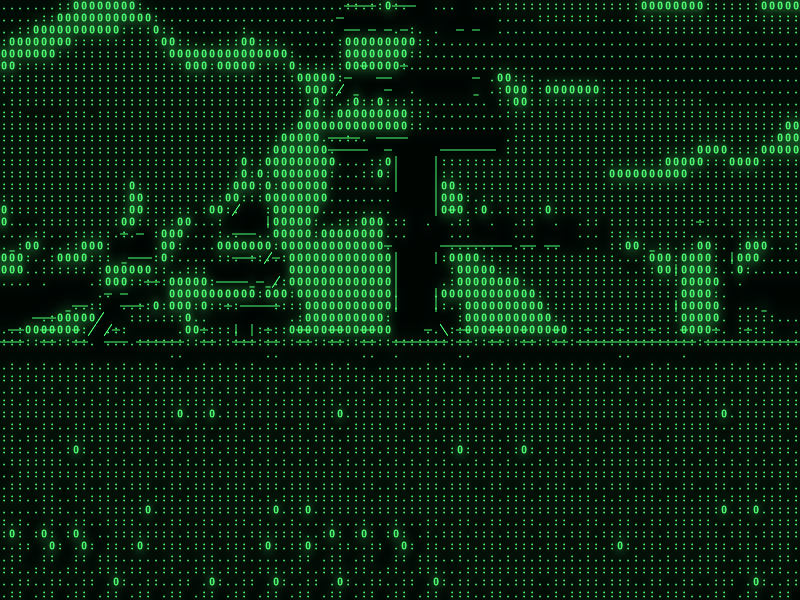
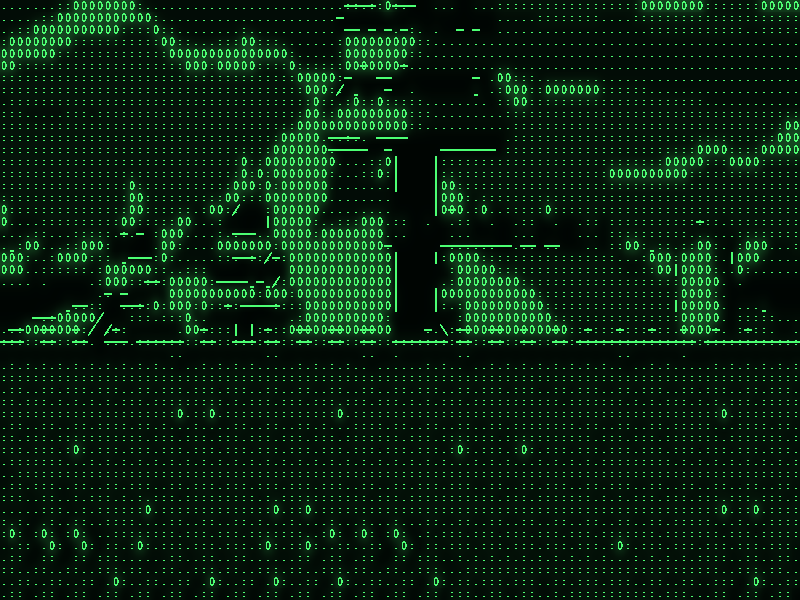
feat: crisp pixel glyphs and solid four-texel contour strokes
Built-in contour strokes were about 2.4 texels of the 16x24 tile and
integrated to one half-intensity gray pixel at 8x12 cells. Make them
four texels wide so they render as two solid pixels, and add a
crisp_glyphs option that binarizes fill and contour masks (ink when at
least 40% covered), for pixel-art characters in the spirit of the
Acerola ASCII reference.

The flag shares the paper-wash slot as bit flags, so push constants are
unchanged. A new oracle group checks binary output against analytic
coverage. Every included style except Chalk enables it.

diff --git a/tests/smoke/atlas_filter.py b/tests/smoke/atlas_filter.py
@@ -51,11 +51,36 @@ for ink in [0, 1]:
     rgb = output.read_bytes().split(b'\n', 3)[3]
     for y in range(h):
         for x in range(w):
-            # The cell before the boundary owns the Sobel contour. A two-texel
-            # atlas bar integrates to half coverage in its two center pixels.
-            expected = 128 if x in [35, 36] else ink * 255
+            # The cell before the boundary owns the contour. The four-texel
+            # atlas bar covers texels 6..9 of 16: pixels 3 and 4 of the 8-pixel
+            # cell, fully, in the contrasting paper color.
+            expected = (1 - ink) * 255 if x in [35, 36] else ink * 255
             assert all(abs(c - expected) <= 1 for c in rgb[(y*w+x)*3:(y*w+x+1)*3]), (name, x, y)
 print('2 adaptive contour-over-fill GPU cases passed without cell-sized holes')
+# Crisp glyphs: every pixel must be exactly ink or paper, decided by the
+# analytic rectangle coverage against the 40% threshold.
+for cw, ch in [(3, 5), (8, 12), (13, 19), (64, 96)]:
+    w, h = cw * 2, ch * 2
+    name = f'crisp-{cw}-{ch}'
+    source = args.output / (name + '-source.ppm')
+    source.write_bytes(f'P6\n{w} {h}\n255\n'.encode() + bytes([128]) * w * h * 3)
+    config = args.output / (name + '.conf')
+    config.write_text('render_style=illustrated\ncolor_mode=mono\nglyph_strength=1\n'
+        f'cell_width={cw}\ncell_height={ch}\ncharacter_set=custom\ncharacters="▘"\n'
+        'edge_strength=0\ncrisp_glyphs=true\nforeground=1,1,1\nbackground=0,0,0\n')
+    output = args.output / (name + '.ppm')
+    subprocess.run([str(args.build / 'glyphshift-preview'), str(source), str(config), str(output)], check=True, stdout=subprocess.DEVNULL)
+    rgb = output.read_bytes().split(b'\n', 3)[3]
+    for y in range(h):
+        for x in range(w):
+            x0, x1 = (x % cw) / cw, (x % cw + 1) / cw
+            y0, y1 = (y % ch) / ch, (y % ch + 1) / ch
+            area = max(0, min(x1, .5) - x0) / (x1 - x0) * max(0, min(y1, .5) - y0) / (y1 - y0)
+            pixel = rgb[(y * w + x) * 3:(y * w + x + 1) * 3]
+            assert pixel in (b'\xff\xff\xff', b'\x00\x00\x00'), (name, x, y, pixel)
+            if abs(area - .4) > .01:
+                assert pixel == (b'\xff\xff\xff' if area >= .4 else b'\x00\x00\x00'), (name, x, y, area)
+print('4 crisp-glyph GPU cases passed: binary pixels matching analytic coverage')
 # Structural matching must recover every mixed quadrant silhouette, including
 # dark objects on bright paper, with both source colors and reversed mono ink.
 for mode in ['source', 'mono']:

diff --git a/tests/unit/art_test.cpp b/tests/unit/art_test.cpp
@@ -50,14 +50,14 @@ int main() {
             "contrast=1.2\ntone_gamma=0.8\nedge_strength=0.7\nedge_threshold=0."
             "2\nforeground=0.2,0.3,0.4\nbackground=1,0.9,0.8\n"
             "shape_matching=true\nshape_threshold=0.17\nscene_paper=0.65\n"
-            "saturation=1.6\nglow=0.3\npaper_wash=true\nstability=0.7\n");
+            "saturation=1.6\nglow=0.3\npaper_wash=true\nstability=0.7\ncrisp_glyphs=true\n");
         check(!parsed.warnings && parsed.value.art.illustrated && !parsed.value.art.fill &&
                   !parsed.value.art.contour_overlay && parsed.value.art.saturation == 1.6F &&
                   parsed.value.art.glow == .3F && parsed.value.art.paper_wash &&
-                  parsed.value.art.stability == .7F,
+                  parsed.value.art.stability == .7F && parsed.value.art.crisp,
             "illustration config");
         check(art_parameters(parsed.value)[16] == 1.6F && art_parameters(parsed.value)[17] == .3F &&
-                  art_parameters(parsed.value)[18] == 1 &&
+                  art_parameters(parsed.value)[18] == 3 &&
                   art_parameters(parsed.value)[art_stability] == .7F,
             "saturation, glow and paper wash reach the shared shader parameters");
         check(parse_settings(serialize_settings(parsed.value)).value == parsed.value,
@@ -79,6 +79,7 @@ int main() {
                  "glow=1.5",
                  "glow=-0.1",
                  "paper_wash=bad",
+                 "crisp_glyphs=maybe",
                  "stability=1.5",
                  "stability=-1",
                  "foreground=1,2,0",

diff --git a/src/config/characters.cpp b/src/config/characters.cpp
@@ -382,10 +382,12 @@ CharacterAtlas build_character_atlas(const CharacterSelection& selection) {
                     for (unsigned x = 0; x < 16; ++x) {
                         const float px = (static_cast<float>(x) + .5F) / 16;
                         const float py = (static_cast<float>(y) + .5F) / 24;
-                        const bool lit = code == '|' ? std::abs(px - .5F) < .075F
+                        // Four-texel strokes: two solid pixels at an 8x12 cell
+                        // instead of one half-intensity pixel.
+                        const bool lit = code == '|' ? std::abs(px - .5F) < .125F
                                          : code == '-'
-                                             ? std::abs(py - .5F) < .05F
-                                             : std::abs(px - (code == '/' ? 1 - py : py)) < .075F;
+                                             ? std::abs(py - .5F) < .084F
+                                             : std::abs(px - (code == '/' ? 1 - py : py)) < .125F;
                         if (lit)
                             pixel(atlas, 256 + e, x, y, 255);
                     }

diff --git a/src/config/settings.cpp b/src/config/settings.cpp
@@ -270,12 +270,13 @@ ParsedSettings parse_settings(std::string_view text) noexcept {
             if (!number(value, target, 0, unit ? 1 : 2))
                 parsed.warnings |= invalid_art;
         } else if (key == "fill_enabled" || key == "contour_overlay" || key == "shape_matching" ||
-                   key == "paper_wash") {
+                   key == "paper_wash" || key == "crisp_glyphs") {
             auto& target = key == "fill_enabled"     ? parsed.value.art.fill
                            : key == "shape_matching" ? parsed.value.art.shape_matching
                            : key == "paper_wash"     ? parsed.value.art.paper_wash
+                           : key == "crisp_glyphs"   ? parsed.value.art.crisp
                                                      : parsed.value.art.contour_overlay;
-            target = key != "shape_matching" && key != "paper_wash";
+            target = key == "fill_enabled" || key == "contour_overlay";
             if (value != "false" && value != "0" && value != "true" && value != "1")
                 parsed.warnings |= invalid_art;
             else

diff --git a/include/glyphshift/config/settings.hpp b/include/glyphshift/config/settings.hpp
@@ -12,6 +12,8 @@ struct ArtSettings {
     bool shape_matching = false;
     // Interpolate cell paper between cell centers: a wash instead of tiles.
     bool paper_wash = false;
+    // Binary glyph masks: every pixel is ink or paper, like pixel-art glyphs.
+    bool crisp = false;
     float shape_threshold = 0.2F, scene_paper = 0.0F;
     float exposure = 1.0F, contrast = 1.0F, gamma = 1.0F;
     float edge_strength = 1.0F, edge_threshold = 0.18F;
@@ -60,7 +62,8 @@ inline std::array<float, 20> art_parameters(const Settings& s) {
         a.scene_paper,
         a.saturation,
         a.glow,
-        a.paper_wash ? 1.0F : 0.0F,
+        // Bit flags: 1 paper wash, 2 crisp glyphs.
+        (a.paper_wash ? 1.0F : 0.0F) + (a.crisp ? 2.0F : 0.0F),
         a.stability};
 }
 

diff --git a/src/editor/editor.cpp b/src/editor/editor.cpp
@@ -404,6 +404,11 @@ void controls(State& state,
                 ImGui::SetTooltip(
                     "Blend scene-colored paper smoothly between cells, like a "
                     "watercolor wash under the glyphs.");
+            ImGui::Checkbox("Crisp pixel glyphs", &art.crisp);
+            if (ImGui::IsItemHovered())
+                ImGui::SetTooltip(
+                    "Every pixel is ink or paper: solid strokes with no gray "
+                    "antialiasing, like pixel-art characters.");
             ImGui::TextWrapped(
                 "Shape matching uses your selected glyphs to preserve small silhouettes. "
                 "Include quadrant blocks for finer shapes. Scene-colored paper affects source "

diff --git a/src/config/presets.cpp b/src/config/presets.cpp
@@ -190,6 +190,7 @@ std::string serialize_settings(const Settings& s) {
            "\nshape_threshold=" + decimal(s.art.shape_threshold) +
            "\nscene_paper=" + decimal(s.art.scene_paper) +
            "\npaper_wash=" + (s.art.paper_wash ? "true" : "false") +
+           "\ncrisp_glyphs=" + (s.art.crisp ? "true" : "false") +
            "\nsaturation=" + decimal(s.art.saturation) + "\nglow=" + decimal(s.art.glow) +
            "\nstability=" + decimal(s.art.stability) + "\nforeground=" + rgb(s.art.foreground) +
            "\nbackground=" + rgb(s.art.background) + "\n";

diff --git a/tests/smoke/run.py b/tests/smoke/run.py
@@ -171,6 +171,8 @@ try:
         # grid holds the same decisions, so ping-pong plumbing is exact.
         characters(art+'stability=1\n')
         assert image(window,'illustrated-stable')==illustrated,'temporal stability changed a static scene'
+        characters(art+'crisp_glyphs=true\n')
+        assert image(window,'illustrated-crisp')!=illustrated,'crisp glyphs did not change image'
         characters(art+'glow=0.8\n')
         assert image(window,'illustrated-glow')!=illustrated,'glow did not change image'
         characters(art+'saturation=0\n')

diff --git a/docs/implementation/README.md b/docs/implementation/README.md
@@ -419,6 +419,42 @@ python3 tests/smoke/temporal.py --build build/dev --output /tmp/glyphshift-tempo
 python3 tests/smoke/temporal.py --build build/dev --output /tmp/glyphshift-temporal --report
 ```
 
+## Crisp glyphs and solid strokes (art direction, phase 5, step 1)
+
+The user pointed to Acerola's ReShade ASCII shader as the reference for
+personality. Reading it (ideas only; the repository states no license, so no
+code was taken) showed pixel-art 8×8 glyphs fetched without filtering: every
+pixel is ink or background. A temporary experiment that binarized our masks
+showed the gap: the built-in contour strokes were about 2.4 texels of the 16×24
+tile, so at an 8×12 cell they integrated to one half-intensity gray pixel.
+
+- Built-in `| - / \` contour glyphs are now four texels wide (half-widths
+  0.125 of the tile width, 0.084 of its height): two solid pixels at 8×12,
+  with or without crisp glyphs. The analytic contour oracle now expects those
+  two pixels fully in the contrasting stroke color.
+- `crisp_glyphs` (bool, default false) binarizes the filtered fill and contour
+  masks in composition: a pixel is ink when at least 40% of its footprint is
+  covered. The art vec4 stays full, so `paper_wash` and `crisp_glyphs` share the
+  former wash slot as bit flags (1 wash, 2 crisp); push constants stay at 112
+  bytes. The editor's **Illustration → Crisp pixel glyphs** checkbox sits below
+  the controls the focused tests click.
+- A new oracle group renders the ▘ quadrant at 3×5, 8×12, 13×19 and 64×96 with
+  crisp glyphs and requires every pixel to be exactly ink or paper, matching
+  the analytic rectangle coverage against the 40% threshold.
+- Crisp glyphs are enabled in every included style except Chalk (chalk reads
+  better soft), and in `illustrated.conf` and `illustrated-ink.conf`.
+
+Thicker strokes also make the remaining texture contours (SuperTux ice in
+Newsprint and Blueprint) more visible; contour *detection* is unchanged in this
+step and is the subject of step 2 (pixel-level difference-of-Gaussians edges).
+
+Verified on 2026-10-18 on the existing NVIDIA/X11 setup: Debug and Release
+built without warnings; Debug CTest 12/12 and Release 14/14 including both
+graphics smokes with Khronos validation. The analytic oracle passed with the
+updated contour expectation and the four crisp cases. Both API smokes require
+crisp glyphs to change the live image, and their GLX/Vulkan captures were
+identical. Focused editor tests and SuperTux were not run for this step.
+
 ## Ready-to-use style collection
 
 Eight embedded styles are listed under **Insert → Preset → Included styles**,

diff --git a/README.md b/README.md
@@ -25,6 +25,8 @@ version of the effect running in the game through Proton.*
 - **Ink, paper and light:** scene-colored ink that glows on dark paper or
   prints dark on light paper, adjustable saturation, a smooth watercolor paper
   wash and a phosphor glow / ink bleed.
+- **Pixel-crisp glyphs:** optional binary glyph masks and solid outline
+  strokes, so characters read like pixel art instead of blurred text.
 - **Calm in motion:** temporal stability keeps each cell's glyph while it still
   fits, so noise and flickering light do not make the drawing boil.
 - **Your characters and fonts:** ASCII, alphanumeric, binary, blocks, Braille,

diff --git a/tests/README.md b/tests/README.md
@@ -433,10 +433,14 @@ presets do. **Saturation** (0..2) affects source color only. **Glow / ink
 bleed** pulls nearby paper toward the ink of surrounding glyphs: a phosphor
 glow on dark paper, a soft bleed on light paper. Compare 0 and 0.5 with F10.
 
+**Crisp pixel glyphs** turns every pixel into ink or paper, with no gray
+antialiasing, for a pixel-art look; most included styles enable it.
+
 ```ini
 saturation=1.6
 glow=0.25
 paper_wash=true
+crisp_glyphs=true
 ```
 
 The old mode remains available as `render_style=classic`. At 4×4, filtering
